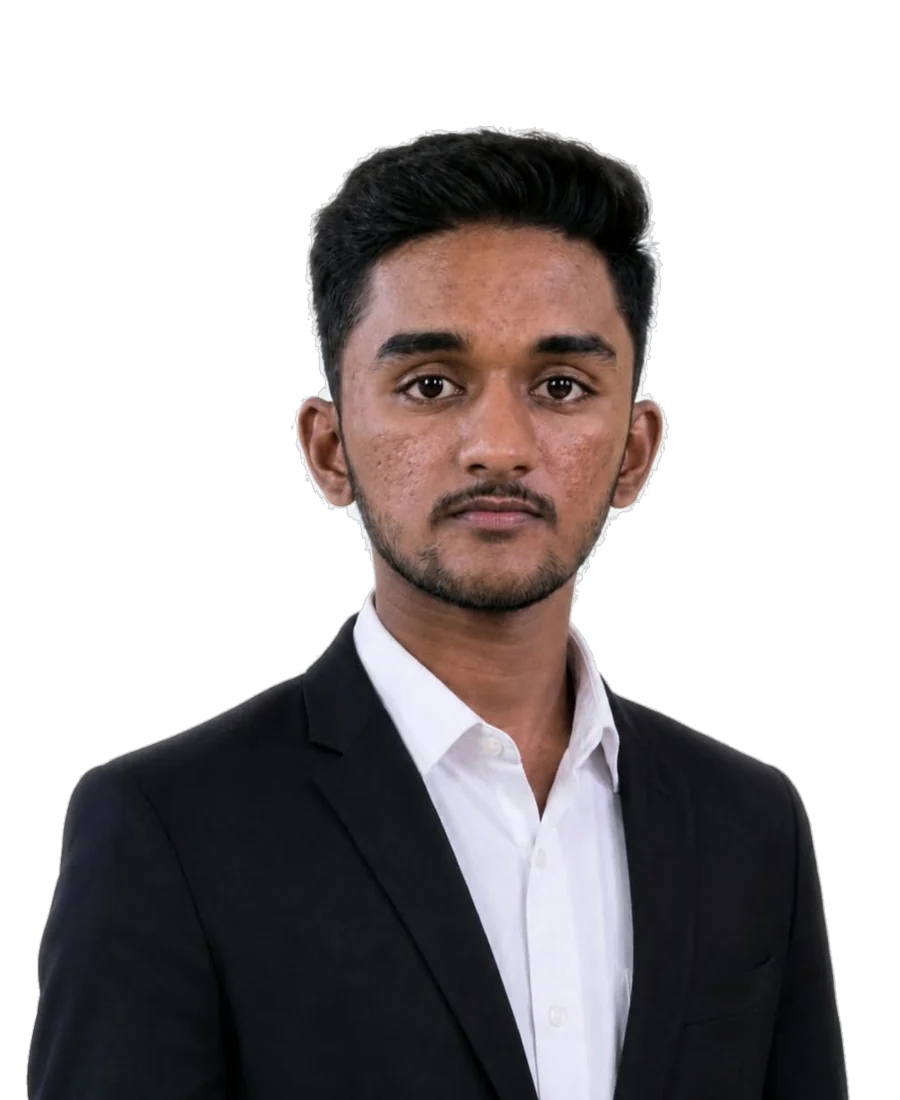
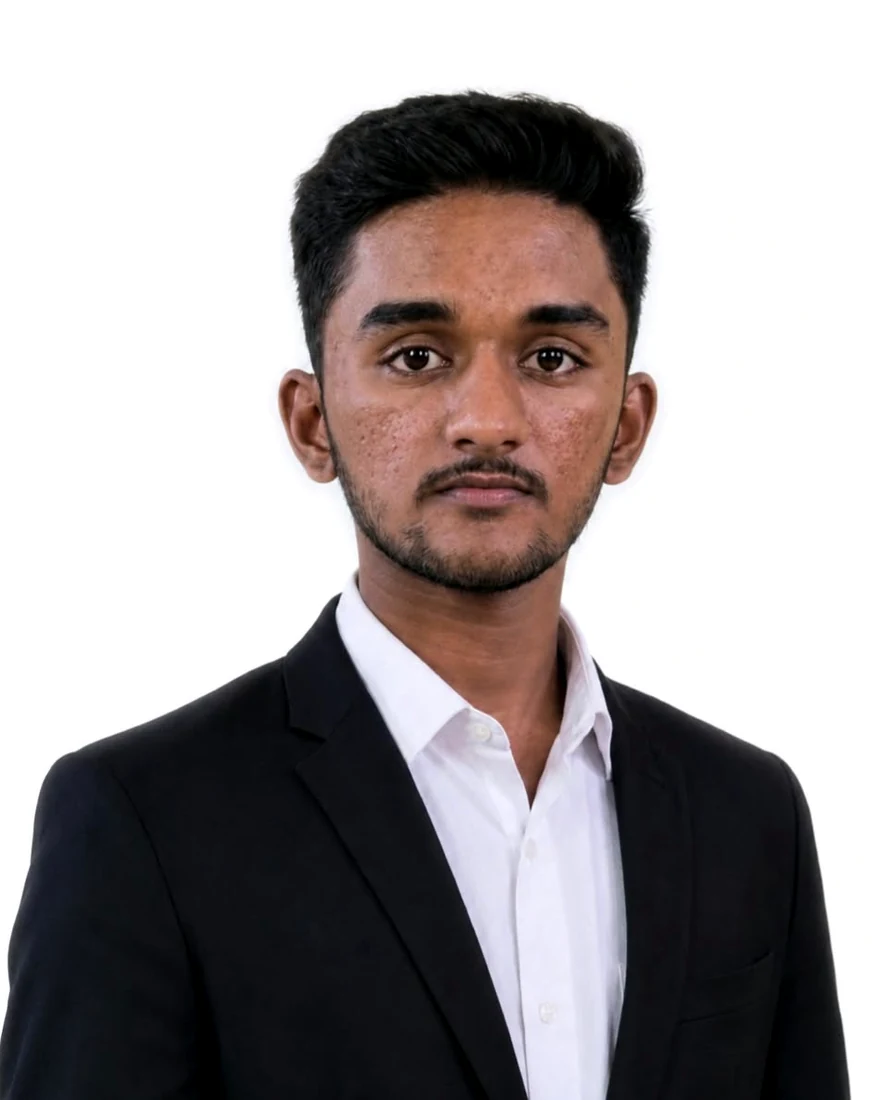
Reframe the portrait; drop the background cutout
The cutout looked bad in place. On a JPEG the edge pixels sit between white
and subject, so the silhouette picked up a visible white fringe along the
hair and shoulders, and the crop left a hard horizontal line across the suit.

Replaced with a framed studio portrait: 4:5 crop, rounded corners, hairline
border, soft shadow, slight lift on hover. The edges are now the frame, so
neither defect can occur, and the studio white reads as part of the
composition rather than an artefact. Dark mode takes the brightness down a
notch so the white card does not glare.

Smaller too - WebP 34KB and a JPEG fallback at 33KB, replacing the 46KB WebP
and 136KB PNG the transparency required.

Changed region(s): [[0.0, 0.0618, 0.9818, 1.0], [0.5523, 0.8655, 0.6136, 1.0], [0.5216, 0.8345, 0.5523, 0.8655]]

diff --git a/index.html b/index.html
@@ -526,34 +526,35 @@ footer a{color:var(--faint);text-decoration:none;display:inline-flex;
   align-items:center;padding:var(--s1) 0}
 footer a:hover{color:var(--ink)}
 
-/* ── portrait ───────────────────────────────────────────────── */
+/* ── portrait ─────────────────────────────────────── */
 .about-wrap{display:grid;gap:var(--s6);align-items:start}
 @media (min-width:820px){
-  .about-wrap{grid-template-columns:minmax(0,1fr) 244px;gap:var(--s8)}
+  .about-wrap{grid-template-columns:minmax(0,1fr) 232px;gap:var(--s8)}
 }
-.portrait{
-  position:relative;justify-self:start;width:100%;max-width:236px;
-  order:-1;
-}
+.portrait{margin:0;justify-self:start;width:100%;max-width:232px;order:-1}
 @media (min-width:820px){.portrait{order:0;justify-self:end}}
-/* a soft halo so the cutout is not floating in nothing */
-.portrait::before{
-  content:"";position:absolute;inset:-8% -6% 6% -6%;border-radius:50%;
-  background:radial-gradient(ellipse at 50% 42%,var(--accent-soft),transparent 68%);
-  z-index:0;
+
+.portrait picture{
+  display:block;overflow:hidden;border-radius:var(--r4);
+  border:1px solid var(--rule);background:var(--surface);
+  box-shadow:var(--shadow-2);
+  transition:transform .35s var(--ease),box-shadow .35s var(--ease);
 }
+.portrait:hover picture{transform:translateY(-3px)}
 .portrait img{
-  position:relative;z-index:1;display:block;width:100%;height:auto;
-  filter:drop-shadow(0 12px 28px rgba(0,0,0,.16));
+  display:block;width:100%;height:auto;aspect-ratio:4/5;object-fit:cover;
 }
-:root[data-theme="dark"] .portrait img{filter:drop-shadow(0 12px 28px rgba(0,0,0,.55))}
+/* the studio white is bright against the dark ground - take the edge off */
+:root[data-theme="dark"] .portrait img{filter:brightness(.93) contrast(1.02)}
 @media (prefers-color-scheme:dark){
-  :root:not([data-theme="light"]) .portrait img{filter:drop-shadow(0 12px 28px rgba(0,0,0,.55))}
+  :root:not([data-theme="light"]) .portrait img{filter:brightness(.93) contrast(1.02)}
 }
 .portrait figcaption{
-  position:relative;z-index:1;margin-top:var(--s3);
-  font-family:var(--mono);font-size:10.5px;letter-spacing:.08em;
-  text-transform:uppercase;color:var(--faint);text-align:center;
+  margin-top:var(--s3);font-family:var(--mono);font-size:10.5px;
+  letter-spacing:.08em;text-transform:uppercase;color:var(--faint);
+}
+@media (prefers-reduced-motion:reduce){
+  .portrait:hover picture{transform:none}
 }
 
 /* ═══════════════════════════════════════════════════════════════
@@ -782,7 +783,7 @@ footer a:hover{color:var(--ink)}
           <figure class="portrait rv">
             <picture>
               <source srcset="asifali.webp" type="image/webp">
-              <img src="asifali.png" width="450" height="550" loading="lazy" decoding="async"
+              <img src="asifali.jpg" width="560" height="700" loading="lazy" decoding="async"
                    alt="Asifali N, wearing a dark suit and white shirt.">
             </picture>
             <figcaption>Asifali N</figcaption>
